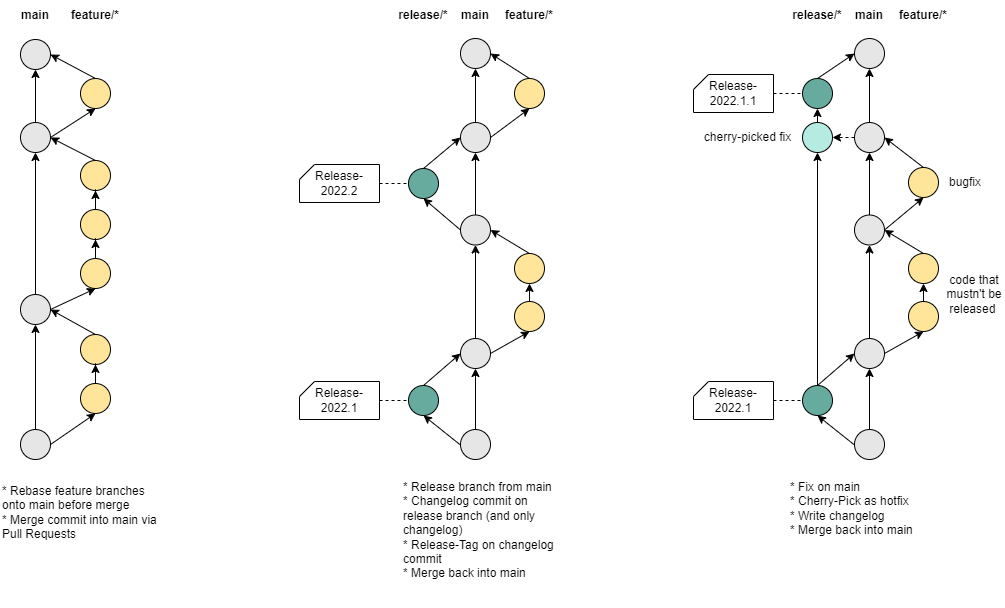
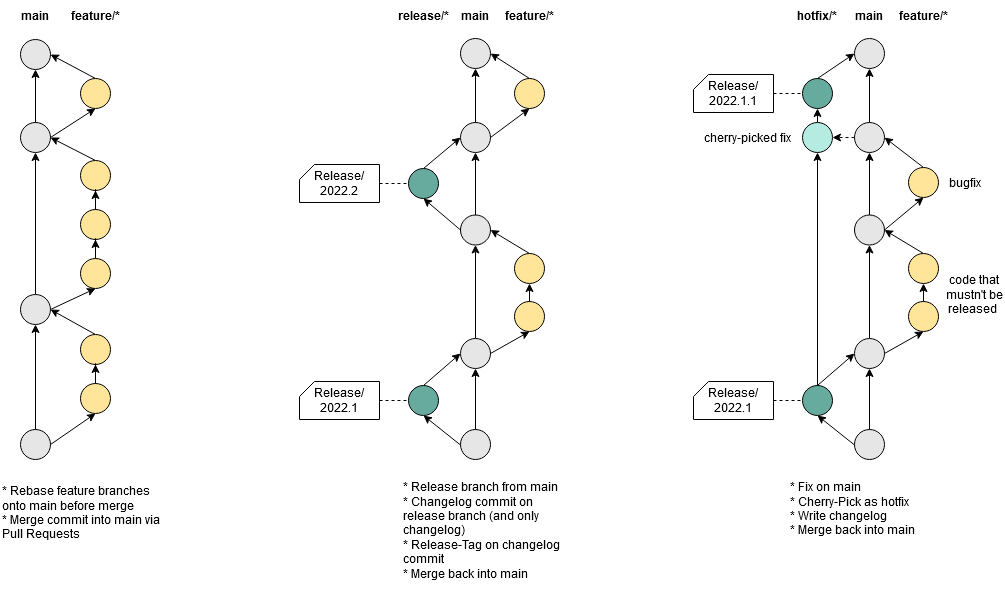
Add hotfixes as a build subject

diff --git a/README.md b/README.md
@@ -29,16 +29,18 @@ Furthermore, `release` branches are used for releases; as they provide the possi
 The changes are determined depending on what is being built (aka on which branch we are).
 * On `main` (as we work with merge commits), the diff are the changes to the _previous commit_ (i.e., _HEAD~1_) on `main`.
 * On `feature` (and `bugfix`), the diff are the changes between the current branch and `main`.
-* On `release`, the diff are the changes since the previous release (i.e., the preceding _release tag_)[^3][^4]
+* On `release` (and `hotfix`), the diff are the changes since the previous release (i.e., the preceding _release tag_)[^3][^4]
 
 [^3]: To determine the order of releases, the method in this template uses `sort -V` to sort by versions.
 
 [^4]: As the very first release wouldn't build (it not having a preceding release tag), we recommend tagging the initial commit of the repository (e.g., as Release-0). 
 
 ### Deployment vs Delivery
-In our workflow, all changes in `main` are deployed to a _staging_ environment (the delivery of a release candidate). Then, _releases_ are deployed to the _production_ environment.
+In our workflow, all changes in `main` are deployed to a _staging_ environment (the delivery of a release candidate). Then, _releases_ and _hotfixes_ are deployed to the _production_ environment.
 
-Note: since all modules should be deployable independently, they need to have their own infrastructure as code specifications.
+We decided to deploy `hotfix/*` directly into _production_, once their branch head has a release tag. So they are quite similar to `release/*` branches; but with a different name and that they are always build and tested.  
+
+Note: Since all modules should be deployable independently, they need to have their own infrastructure as code specifications.
 
 ### Jenkins Declarative Pipeline Limitations
 Unfortunately, Jenkins does not allow the extraction of full stage declarations (with agents, environments, conditionals, steps) into separate files. Either only Jenkins steps that can be written in `step` (e.g., `sh`) can be extracted or a full `pipeline`. The latter is, however, limited by the fact that Jenkins allows only exactly one pipeline to run.
